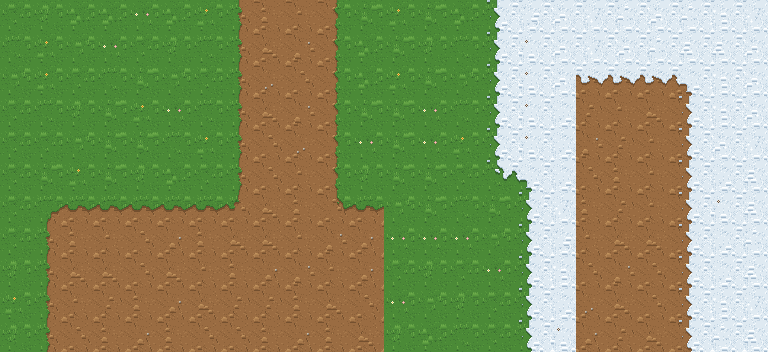
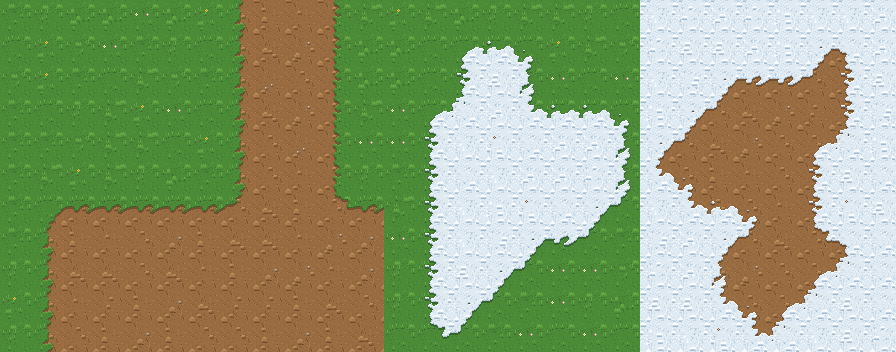
Ground tiles: smoother transition noise and an irregular-blob preview scene
Claude-Session: https://claude.ai/code/session_01UfpJh2yGrDMaNfv5mQuco1

diff --git a/tools/pixel-art/ground.py b/tools/pixel-art/ground.py
@@ -236,14 +236,14 @@ def smooth(u): return u * u * (3 - 2 * u)
 def wang_tile(lower, upper, nw, ne, sw, se, gi=0, di=0):
     """Köşe bitleri: 1 = lower. Upper dokusu lower'ın üstüne taşar; kenarda gölge ve açık uç."""
     lo, up = MAT[lower], MAT[upper]
-    amp = 0.42 if upper == 'snow' else 0.2      # kar kenarı daha dalgalı, düz çizgi gibi kesilmesin
+    amp = 0.28 if upper == 'snow' else 0.2      # kar kenarı daha dalgalı, düz çizgi gibi kesilmesin
     d, g = lo['tiles'][di].load(), up['tiles'][gi].load()
     LP, UP = lo['pal'], up['pal']
     im = Image.new('RGBA', (T, T)); px = im.load()
     def is_lower(x, y):
-        u, v = smooth((x + 0.5) / T), smooth((y + 0.5) / T)
+        u, v = (x + 0.5) / T, (y + 0.5) / T          # doğrusal: gürültü kenarı kıvırsın, sivri kanca çıkmasın
         m = (nw * (1 - u) * (1 - v) + ne * u * (1 - v) + sw * (1 - u) * v + se * u * v)
-        return m + amp * pnoise(x, y, 77, ((2, 1.0), (3, 0.8), (4, 0.6), (6, 0.35))) > 0.5
+        return m + amp * pnoise(x, y, 77, ((1, 0.8), (2, 1.0), (3, 0.9), (4, 0.7))) > 0.5
     mask = [[is_lower(x, y) for x in range(T)] for y in range(T)]
     def M(x, y):
         return mask[min(T - 1, max(0, y))][min(T - 1, max(0, x))]
@@ -296,18 +296,25 @@ def render_map(pair, vertices, wt, ht, seed=5):
             im.paste(tile, (tx * T, ty * T))
     return im
 
+def blob(cx, cy, rx, ry, seed):
+    """Düzensiz leke: köşe ızgarasında 1/0. Gerçek haritada kenar böyle kıvrıla kıvrıla gider."""
+    r = random.Random(seed); ph = [r.random() * 6.283 for _ in range(3)]
+    def f(x, y):
+        a = math.atan2((y - cy) / ry, (x - cx) / rx); d = math.hypot((x - cx) / rx, (y - cy) / ry)
+        return 1 if d < 1 + 0.28 * math.sin(3 * a + ph[0]) + 0.18 * math.sin(5 * a + ph[1]) + 0.1 * math.sin(2 * a + ph[2]) else 0
+    return f
+
 def preview():
-    W_, H_ = 24, 11
-    def lower(x, y):                      # toprak yol + çimen
+    H_ = 11
+    def road(x, y):
         if 8 <= x <= 10 and y <= 7: return 1
         if 2 <= x <= 17 and 7 <= y <= 11: return 1
         return 0
-    a = render_map('cimen-toprak', lower, 12, H_)
-    snow_edge = lambda x, y: 1 if x < 5 + (y % 3 == 0) + (y > 6) else 0   # sol yarı çimen, sağ kar
-    b = render_map('kar-cimen', lambda x, y: 1 if x <= 3 + (y > 5) else 0, 6, H_, 9)
-    c = render_map('kar-toprak', lambda x, y: 1 if (x <= 3 and y > 2) else 0, 6, H_, 11)
-    sc = Image.new('RGBA', (24 * T, H_ * T))
-    sc.paste(a, (0, 0)); sc.paste(b, (12 * T, 0)); sc.paste(c, (18 * T, 0))
+    a = render_map('cimen-toprak', road, 12, H_)
+    b = render_map('kar-cimen', lambda x, y: 1 - blob(4, 5.5, 2.9, 3.6, 3)(x, y), 8, H_, 9)      # 1 = çimen
+    c = render_map('kar-toprak', blob(4, 5.5, 2.4, 3.5, 5), 8, H_, 11)                            # 1 = toprak yamağı
+    sc = Image.new('RGBA', (28 * T, H_ * T))
+    sc.paste(a, (0, 0)); sc.paste(b, (12 * T, 0)); sc.paste(c, (20 * T, 0))
     sc.save(os.path.join(OUT, 'zemin-sahne-1x.png'))
     sc.resize((sc.width * 2, sc.height * 2), Image.NEAREST).save(os.path.join(OUT, 'zemin-sahne-2x.png'))
 
